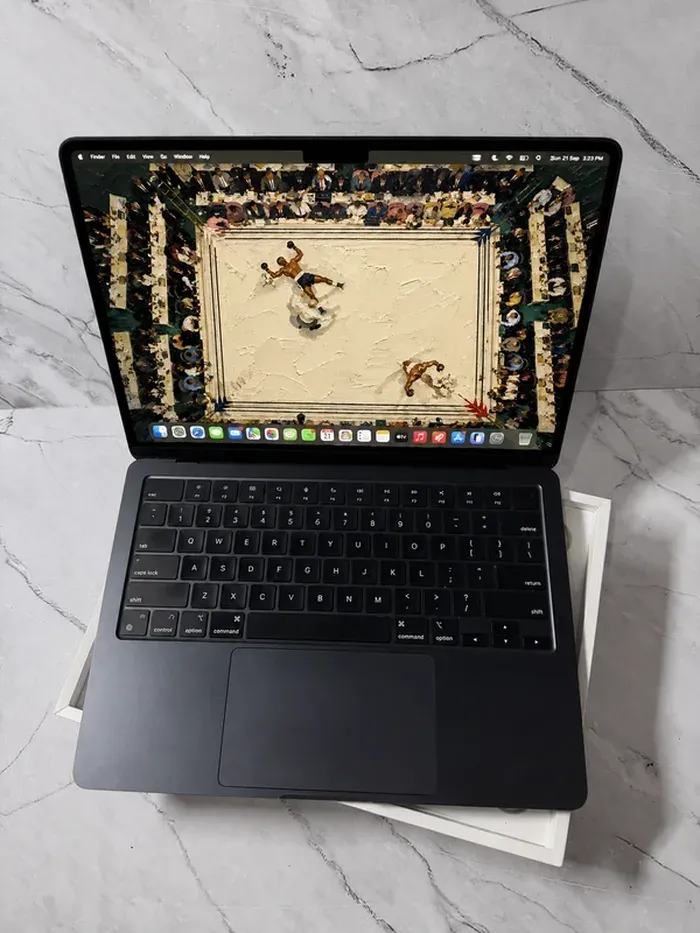
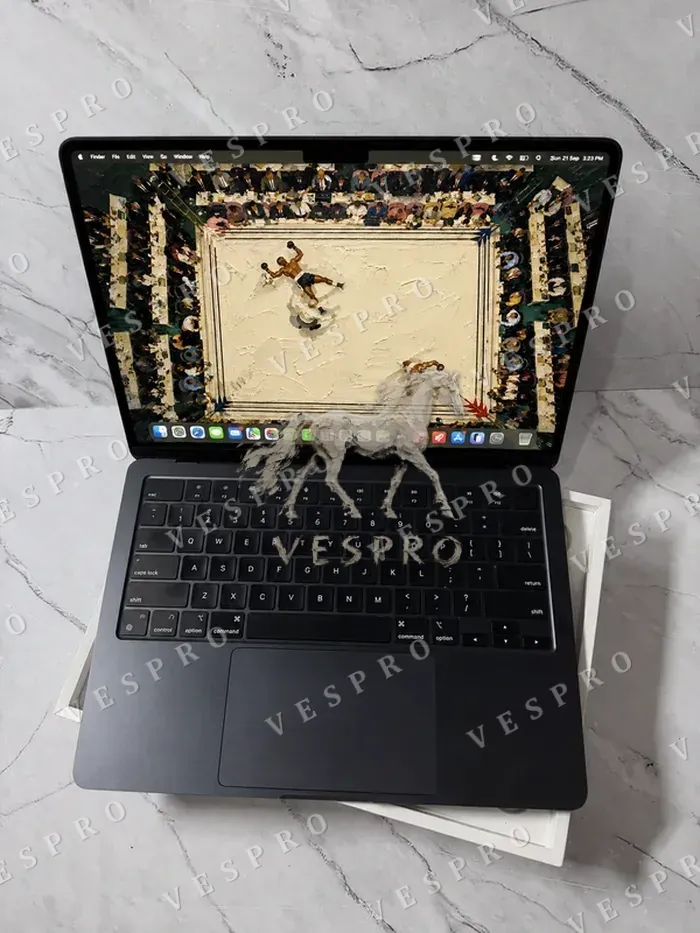
Comunidade: mural em movimento com fotos e conversas novas de clientes
- Duas fileiras em carrossel (fotos para a esquerda, conversas para a direita),
  arrastáveis, com fade nas bordas; largura calculada para Safari antigo
- 3 fotos novas de clientes (2 vieram deitadas e foram giradas) e 4 conversas
  do Instagram
- Marca d'água VESPRO em todas as fotos do mural
- Prints sem nome, @, fotos de perfil, e-mail e link do Drive da coleção;
  nome na tela de bloqueio pixelado
- Fotos do mural pré-carregadas antes da seção chegar
- Originais sem marca guardados fora da pasta publicada (oil wallpaper/)

diff --git a/index.html b/index.html
@@ -140,6 +140,23 @@ img{-webkit-user-drag:none;user-drag:none;-webkit-user-select:none;user-select:n
 body{-webkit-touch-callout:none}
 @media print{img,.fl,[data-compare]{visibility:hidden!important}}
 
+/* ===== COMUNIDADE: mural em movimento (duas fileiras em sentidos opostos) ===== */
+.cm-wrap{margin:0 -1.5rem}
+.cm-wrap [data-marquee]{-webkit-mask-image:linear-gradient(90deg,transparent,#000 6%,#000 94%,transparent);mask-image:linear-gradient(90deg,transparent,#000 6%,#000 94%,transparent)}
+.cm-row2{margin-top:16px}
+.cm-track{display:flex;width:max-content;align-items:center}
+.cm-item{flex-shrink:0;margin-right:16px}
+.cm-card{position:relative;overflow:hidden;border-radius:1rem;box-shadow:0 0 0 1px rgba(255,255,255,.15),0 25px 50px -12px rgba(0,0,0,.5);background:#0b0f16}
+.cm-card img{display:block;width:100%;height:100%;object-fit:cover}
+.cm-photo{height:200px;width:calc(200px * var(--r))}
+.cm-chat{height:380px;width:calc(380px * var(--r))}
+@media (min-width:768px){
+  .cm-item{margin-right:20px}
+  .cm-row2{margin-top:20px}
+  .cm-photo{height:280px;width:calc(280px * var(--r))}
+  .cm-chat{height:460px;width:calc(460px * var(--r))}
+}
+
 /* ===== POP-UP DE OFERTA: sempre alcançável em telas baixas =====
    No iPhone (Safari e navegador do Instagram/Facebook) 92vh é maior que a área visível,
    então o rodapé com os links do checkout ficava fora da tela e sem rolagem.
@@ -689,22 +706,14 @@ body{-webkit-touch-callout:none}
 <div class="max-w-6xl mx-auto">
   <div class="reveal" style="transition-delay: 0.1s;"><h2 class="text-4xl md:text-6xl font-medium tracking-[-1px] text-center mb-4">Comunidade <span class="font-serif italic font-normal">Vespro</span></h2></div>
   <div class="reveal" style="transition-delay: 0.15s;"><p class="text-muted-foreground text-lg text-center max-w-xl mx-auto mb-10 md:mb-14">Gente que já trocou as telas e manda foto do resultado.<br>Mandou a sua, ela entra aqui no mural.</p></div>
-  <!-- Mural: fotos de clientes + conversas reais do WhatsApp -->
-  <div class="grid grid-cols-2 md:grid-cols-3 gap-4 text-left">
-<div class="flex flex-col gap-4">
-<div class="reveal"><div class="relative rounded-2xl overflow-hidden ring-1 ring-white/15 shadow-2xl shadow-black/50"><div class="aspect-[3/4]" style="aspect-ratio: 3 / 4;"><img src="assets/comunidade/ambiente-notebook.webp" alt="Wallpaper Vespro em um notebook sobre a mesa" width="700" height="933" loading="lazy" decoding="async" class="w-full h-full object-cover"></div><div class="absolute top-3 left-3"><span class="liquid-glass block rounded-full px-3 py-1 text-[10px] tracking-[1.5px] uppercase text-foreground/90">Notebook</span></div></div></div>
-<div class="reveal" style="transition-delay: 0.08s;"><div class="relative rounded-2xl overflow-hidden ring-1 ring-white/15 shadow-2xl shadow-black/50"><img src="assets/depoimentos/depoimento-1.webp" alt="Conversa no WhatsApp: cliente mostra o notebook com o wallpaper e diz que curtiu demais" width="606" height="732" loading="lazy" decoding="async" draggable="false" class="w-full h-auto block rounded-2xl ring-1 ring-white/15 shadow-2xl shadow-black/50"></div></div>
 </div>
-<div class="flex flex-col gap-4">
-<div class="reveal" style="transition-delay: 0.15s;"><div class="relative rounded-2xl overflow-hidden ring-1 ring-white/15 shadow-2xl shadow-black/50"><div class="aspect-[4/3]" style="aspect-ratio: 4 / 3;"><img src="assets/comunidade/ambiente-setup.webp" alt="Wallpaper Vespro em um setup de dois monitores no quarto" width="1200" height="900" loading="lazy" decoding="async" class="w-full h-full object-cover"></div><div class="absolute top-3 left-3"><span class="liquid-glass block rounded-full px-3 py-1 text-[10px] tracking-[1.5px] uppercase text-foreground/90">Setup</span></div></div></div>
-<div class="reveal" style="transition-delay: 0.12s;"><div class="relative rounded-2xl overflow-hidden ring-1 ring-white/15 shadow-2xl shadow-black/50"><div class="aspect-[3/4]" style="aspect-ratio: 3 / 4;"><img src="assets/comunidade/ambiente-desktop.webp" alt="Wallpaper Vespro na área de trabalho de um notebook" width="700" height="933" loading="lazy" decoding="async" class="w-full h-full object-cover"></div><div class="absolute top-3 left-3"><span class="liquid-glass block rounded-full px-3 py-1 text-[10px] tracking-[1.5px] uppercase text-foreground/90">Notebook</span></div></div></div>
+<!-- Mural em movimento: fotos (para a esquerda) e conversas reais de clientes (para a direita). Arraste para navegar. -->
+<div class="reveal cm-wrap" style="transition-delay: 0.18s;">
+  <div class="overflow-hidden" data-marquee="38" style="touch-action: pan-y;"><div class="cm-track cursor-grab active:cursor-grabbing will-change-transform"><div class="cm-item"><div class="cm-card cm-photo" style="--r: 1.7787;"><img src="assets/comunidade/cliente-setup-3-monitores.webp" alt="Cliente com wallpapers Vespro em três monitores" width="900" height="506" loading="lazy" decoding="async" draggable="false"><div class="absolute top-3 left-3"><span class="liquid-glass block rounded-full px-3 py-1 text-[10px] tracking-[1.5px] uppercase text-foreground/90">Foto de cliente</span></div></div></div><div class="cm-item"><div class="cm-card cm-photo" style="--r: 0.7503;"><img src="assets/comunidade/ambiente-notebook.webp?v=wm1" alt="Wallpaper Vespro em um notebook sobre a mesa" width="700" height="933" loading="lazy" decoding="async" draggable="false"><div class="absolute top-3 left-3"><span class="liquid-glass block rounded-full px-3 py-1 text-[10px] tracking-[1.5px] uppercase text-foreground/90">Notebook</span></div></div></div><div class="cm-item"><div class="cm-card cm-photo" style="--r: 1.3333;"><img src="assets/comunidade/cliente-setup-gato.webp" alt="Cliente com o wallpaper do gato em dois monitores" width="900" height="675" loading="lazy" decoding="async" draggable="false"><div class="absolute top-3 left-3"><span class="liquid-glass block rounded-full px-3 py-1 text-[10px] tracking-[1.5px] uppercase text-foreground/90">Foto de cliente</span></div></div></div><div class="cm-item"><div class="cm-card cm-photo" style="--r: 1.3333;"><img src="assets/comunidade/ambiente-setup.webp?v=wm1" alt="Wallpaper Vespro em um setup de dois monitores no quarto" width="1200" height="900" loading="lazy" decoding="async" draggable="false"><div class="absolute top-3 left-3"><span class="liquid-glass block rounded-full px-3 py-1 text-[10px] tracking-[1.5px] uppercase text-foreground/90">Setup</span></div></div></div><div class="cm-item"><div class="cm-card cm-photo" style="--r: 1.2821;"><img src="assets/comunidade/cliente-notebook-56.webp" alt="Cliente com wallpaper Vespro em preto e branco no notebook" width="900" height="702" loading="lazy" decoding="async" draggable="false"><div class="absolute top-3 left-3"><span class="liquid-glass block rounded-full px-3 py-1 text-[10px] tracking-[1.5px] uppercase text-foreground/90">Foto de cliente</span></div></div></div><div class="cm-item"><div class="cm-card cm-photo" style="--r: 0.7503;"><img src="assets/comunidade/ambiente-desktop.webp?v=wm1" alt="Wallpaper Vespro na área de trabalho de um notebook" width="700" height="933" loading="lazy" decoding="async" draggable="false"><div class="absolute top-3 left-3"><span class="liquid-glass block rounded-full px-3 py-1 text-[10px] tracking-[1.5px] uppercase text-foreground/90">Notebook</span></div></div></div><div class="cm-item"><div class="cm-card cm-photo" style="--r: 0.5636;"><img src="assets/comunidade/ambiente-tablet.webp?v=wm1" alt="Wallpaper Vespro na tela de um tablet" width="700" height="1242" loading="lazy" decoding="async" draggable="false"><div class="absolute top-3 left-3"><span class="liquid-glass block rounded-full px-3 py-1 text-[10px] tracking-[1.5px] uppercase text-foreground/90">Tablet</span></div></div></div><div class="cm-item" aria-hidden="true"><div class="cm-card cm-photo" style="--r: 1.7787;"><img src="assets/comunidade/cliente-setup-3-monitores.webp" alt="" width="900" height="506" loading="lazy" decoding="async" draggable="false"><div class="absolute top-3 left-3"><span class="liquid-glass block rounded-full px-3 py-1 text-[10px] tracking-[1.5px] uppercase text-foreground/90">Foto de cliente</span></div></div></div><div class="cm-item" aria-hidden="true"><div class="cm-card cm-photo" style="--r: 0.7503;"><img src="assets/comunidade/ambiente-notebook.webp?v=wm1" alt="" width="700" height="933" loading="lazy" decoding="async" draggable="false"><div class="absolute top-3 left-3"><span class="liquid-glass block rounded-full px-3 py-1 text-[10px] tracking-[1.5px] uppercase text-foreground/90">Notebook</span></div></div></div><div class="cm-item" aria-hidden="true"><div class="cm-card cm-photo" style="--r: 1.3333;"><img src="assets/comunidade/cliente-setup-gato.webp" alt="" width="900" height="675" loading="lazy" decoding="async" draggable="false"><div class="absolute top-3 left-3"><span class="liquid-glass block rounded-full px-3 py-1 text-[10px] tracking-[1.5px] uppercase text-foreground/90">Foto de cliente</span></div></div></div><div class="cm-item" aria-hidden="true"><div class="cm-card cm-photo" style="--r: 1.3333;"><img src="assets/comunidade/ambiente-setup.webp?v=wm1" alt="" width="1200" height="900" loading="lazy" decoding="async" draggable="false"><div class="absolute top-3 left-3"><span class="liquid-glass block rounded-full px-3 py-1 text-[10px] tracking-[1.5px] uppercase text-foreground/90">Setup</span></div></div></div><div class="cm-item" aria-hidden="true"><div class="cm-card cm-photo" style="--r: 1.2821;"><img src="assets/comunidade/cliente-notebook-56.webp" alt="" width="900" height="702" loading="lazy" decoding="async" draggable="false"><div class="absolute top-3 left-3"><span class="liquid-glass block rounded-full px-3 py-1 text-[10px] tracking-[1.5px] uppercase text-foreground/90">Foto de cliente</span></div></div></div><div class="cm-item" aria-hidden="true"><div class="cm-card cm-photo" style="--r: 0.7503;"><img src="assets/comunidade/ambiente-desktop.webp?v=wm1" alt="" width="700" height="933" loading="lazy" decoding="async" draggable="false"><div class="absolute top-3 left-3"><span class="liquid-glass block rounded-full px-3 py-1 text-[10px] tracking-[1.5px] uppercase text-foreground/90">Notebook</span></div></div></div><div class="cm-item" aria-hidden="true"><div class="cm-card cm-photo" style="--r: 0.5636;"><img src="assets/comunidade/ambiente-tablet.webp?v=wm1" alt="" width="700" height="1242" loading="lazy" decoding="async" draggable="false"><div class="absolute top-3 left-3"><span class="liquid-glass block rounded-full px-3 py-1 text-[10px] tracking-[1.5px] uppercase text-foreground/90">Tablet</span></div></div></div></div></div>
+  <div class="overflow-hidden cm-row2" data-marquee="-30" style="touch-action: pan-y;"><div class="cm-track cursor-grab active:cursor-grabbing will-change-transform"><div class="cm-item"><div class="cm-card cm-chat" style="--r: 0.8780;"><img src="assets/depoimentos/depoimento-3.webp" alt="Conversa no Instagram: cliente diz que curtiu muito a arte e vai pegar outros packs" width="540" height="615" loading="lazy" decoding="async" draggable="false"></div></div><div class="cm-item"><div class="cm-card cm-chat" style="--r: 0.8279;"><img src="assets/depoimentos/depoimento-1.webp" alt="Conversa no WhatsApp: cliente mostra o notebook com o wallpaper e diz que curtiu demais" width="606" height="732" loading="lazy" decoding="async" draggable="false"></div></div><div class="cm-item"><div class="cm-card cm-chat" style="--r: 0.5775;"><img src="assets/depoimentos/depoimento-4.webp" alt="Conversa no Instagram: cliente manda vídeo do wallpaper e diz que ficou lindo" width="540" height="935" loading="lazy" decoding="async" draggable="false"></div></div><div class="cm-item"><div class="cm-card cm-chat" style="--r: 0.9117;"><img src="assets/depoimentos/depoimento-2.webp?v=2" alt="Conversa no WhatsApp: cliente diz que o PC melhorou demais e elogia o produto" width="599" height="657" loading="lazy" decoding="async" draggable="false"></div></div><div class="cm-item"><div class="cm-card cm-chat" style="--r: 0.5775;"><img src="assets/depoimentos/depoimento-5.webp" alt="Conversa no Instagram: cliente mostra o notebook com o wallpaper da pantera" width="540" height="935" loading="lazy" decoding="async" draggable="false"></div></div><div class="cm-item"><div class="cm-card cm-chat" style="--r: 0.6000;"><img src="assets/depoimentos/depoimento-6.webp" alt="Conversa no Instagram: cliente diz que é o melhor wallpaper possível e manda foto do setup" width="540" height="900" loading="lazy" decoding="async" draggable="false"></div></div><div class="cm-item" aria-hidden="true"><div class="cm-card cm-chat" style="--r: 0.8780;"><img src="assets/depoimentos/depoimento-3.webp" alt="" width="540" height="615" loading="lazy" decoding="async" draggable="false"></div></div><div class="cm-item" aria-hidden="true"><div class="cm-card cm-chat" style="--r: 0.8279;"><img src="assets/depoimentos/depoimento-1.webp" alt="" width="606" height="732" loading="lazy" decoding="async" draggable="false"></div></div><div class="cm-item" aria-hidden="true"><div class="cm-card cm-chat" style="--r: 0.5775;"><img src="assets/depoimentos/depoimento-4.webp" alt="" width="540" height="935" loading="lazy" decoding="async" draggable="false"></div></div><div class="cm-item" aria-hidden="true"><div class="cm-card cm-chat" style="--r: 0.9117;"><img src="assets/depoimentos/depoimento-2.webp?v=2" alt="" width="599" height="657" loading="lazy" decoding="async" draggable="false"></div></div><div class="cm-item" aria-hidden="true"><div class="cm-card cm-chat" style="--r: 0.5775;"><img src="assets/depoimentos/depoimento-5.webp" alt="" width="540" height="935" loading="lazy" decoding="async" draggable="false"></div></div><div class="cm-item" aria-hidden="true"><div class="cm-card cm-chat" style="--r: 0.6000;"><img src="assets/depoimentos/depoimento-6.webp" alt="" width="540" height="900" loading="lazy" decoding="async" draggable="false"></div></div></div></div>
 </div>
-<div class="flex flex-col gap-4">
-<div class="reveal" style="transition-delay: 0.1s;"><div class="relative rounded-2xl overflow-hidden ring-1 ring-white/15 shadow-2xl shadow-black/50"><img src="assets/depoimentos/depoimento-2.webp?v=2" alt="Conversa no WhatsApp: cliente diz que o PC melhorou demais e elogia o produto" width="599" height="657" loading="lazy" decoding="async" draggable="false" class="w-full h-auto block rounded-2xl ring-1 ring-white/15 shadow-2xl shadow-black/50"></div></div>
-<div class="reveal" style="transition-delay: 0.18s;"><div class="relative rounded-2xl overflow-hidden ring-1 ring-white/15 shadow-2xl shadow-black/50"><div class="aspect-[9/16]" style="aspect-ratio: 9 / 16;"><img src="assets/comunidade/ambiente-tablet.webp" alt="Wallpaper Vespro na tela de um tablet" width="700" height="1242" loading="lazy" decoding="async" class="w-full h-full object-cover"></div><div class="absolute top-3 left-3"><span class="liquid-glass block rounded-full px-3 py-1 text-[10px] tracking-[1.5px] uppercase text-foreground/90">Tablet</span></div></div></div>
-</div>
-</div>
-  <div class="reveal" style="transition-delay: 0.22s;"><p class="text-muted-foreground text-sm text-center mt-10">Tirou foto da sua tela? Manda no WhatsApp que a gente coloca no mural.<br><span class="text-xs text-muted-foreground/70">Conversas reais de clientes. Fotos de ambiente ilustrativas.</span></p></div>
+<div class="max-w-6xl mx-auto">
+  <div class="reveal" style="transition-delay: 0.22s;"><p class="text-muted-foreground text-sm text-center mt-10">Tirou foto da sua tela? Manda no WhatsApp que a gente coloca no mural.<br><span class="text-xs text-muted-foreground/70">Conversas e fotos marcadas como “foto de cliente” são reais (dados pessoais ocultados). As demais fotos de ambiente são ilustrativas.</span></p></div>
   <div class="reveal" style="transition-delay: 0.25s;"><div class="flex justify-center mt-8"><a href="#oferta" class="bg-foreground text-background rounded-full px-8 py-4 text-sm font-semibold tracking-wide transition-transform duration-200 hover:scale-[1.03] active:scale-[0.98]">QUERO A MINHA</a></div></div>
 </div>
 </section>
@@ -849,6 +858,16 @@ body{-webkit-touch-callout:none}
     ['pointerup','pointercancel'].forEach(function(t){wrap.addEventListener(t,function(){drag=false;});});
     (function tick(now){var dt=Math.min((now-last)/1000,.1);last=now;if(wrap.offsetParent!==null){if(!hover&&!drag)x-=speed*dt;var half=track.scrollWidth/2;if(half>0)x=-(((-x%half)+half)%half);track.style.transform='translate3d('+x+'px,0,0)';}requestAnimationFrame(tick);})(last);
   }); });
+
+  // Comunidade: carrega as fotos do mural antes de a seção chegar (dentro do carrossel o lazy do navegador
+  // só baixaria cada foto quando ela entrasse na tela, e ela apareceria vazia por um instante)
+  safe(function(){
+    var sec=document.getElementById('comunidade'); if(!sec) return;
+    var go=function(){ sec.querySelectorAll('img[loading="lazy"]').forEach(function(i){ i.loading='eager'; }); };
+    if(!hasIO){ go(); return; }
+    var o=new IntersectionObserver(function(es){ if(es[0].isIntersecting){ go(); o.disconnect(); } },{rootMargin:'800px 0px'});
+    o.observe(sec);
+  });
 
   // Texto revelado palavra a palavra conforme o scroll
   safe(function(){ var wr=document.querySelector('[data-word-reveal]');
